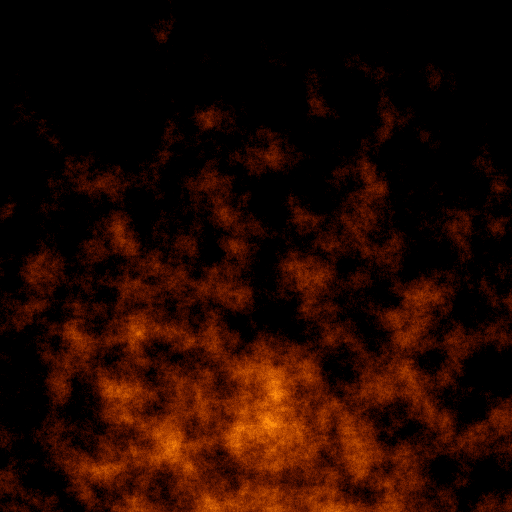
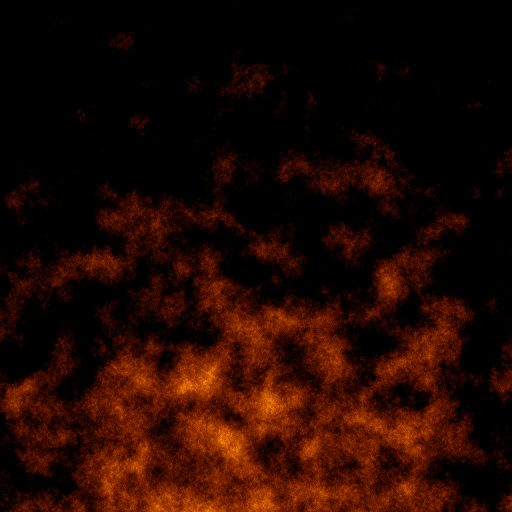
Final

diff --git a/fire.py b/fire.py
@@ -3,14 +3,15 @@ import numpy as np
 from scipy.spatial import distance
 from PIL import Image, ImageDraw
 
-seed = np.random.randint(0, 100)
+
 max_color = (246, 203, 29)
 min_color = (255, 85, 0)
 
 
-def generate_fire(n: int, width: int, scale: int)->None:
+def generate_fire(n: int, width: int, scale: int, seed: int)->None:
     """
     Genera un png a partir de perlin noise en 3D
+    :param seed: semilla de inicialización
     :param n: numero de secuencia
     :param width: ancho y alto de la imagen
     :param scale: es
@@ -19,21 +20,20 @@ def generate_fire(n: int, width: int, scale: int)->None:
     print("Imagen ", n)
     fire = np.zeros((width, width))
     reference_point = (width - 1, int((width - 1) - (width - 1) / 2.0))
-    k = n / 100
+    k = n/(13)
     for i in range(width):
         for j in range(width):
-            perlin_one = noise.pnoise3((i / scale), j / scale + n / 100, n / 100, octaves=8, persistence=0.5,
+            perlin_one = noise.pnoise3((i / scale), j / scale, k, octaves=8, persistence=0.5,
                                        lacunarity=1.0, repeatx=1024, repeaty=1024,
                                        base=seed)
-            perlin_two = noise.pnoise3(i / (scale / 2), j / (scale / 2) - n / 100, n / 10, octaves=8, persistence=0.4,
+            perlin_two = noise.pnoise3(i / (scale / 2), j / (scale / 2) , k, octaves=8, persistence=0.4,
                                        lacunarity=2.0, repeatx=1024, repeaty=1024,
                                        base=seed)
-            perlin_three = noise.pnoise3((i + 60 / scale), j - 20 / scale + n / 100, n / 100, octaves=8, persistence=1,
+            perlin_three = noise.pnoise3((i + 60 / scale), j - 20 / scale , k, octaves=8, persistence=1,
                                          lacunarity=0.5, repeatx=1024, repeaty=1024,
                                          base=seed)
-            fire[i][j] = (perlin_one * 0.5) + (perlin_two * 0.5) + perlin_three - distance.euclidean((i + 40, j),
-                                                                                                     reference_point) / (
-                                 scale * 10)
+            fire[i][j] = (perlin_one * 0.5) + (perlin_two * 0.5) + perlin_three - distance.euclidean((i + 20, j),
+                                                                reference_point) / (scale * 10)
     img = generate_output(fire)
     img.save("./outputs/" + str(n) + ".png")
 

diff --git a/main.py b/main.py
@@ -1,21 +1,12 @@
-# import threading
-#
-# from fire import generate_fire, generate_gif
-# thread_list = []
-#
-# for n in range(16):
-#    thread = threading.Thread(target=generate_fire, args=[n, 100, 10])
-#    thread_list.append(thread)
-#    thread.start()
-#
-# for thread in thread_list:
-#    thread.join()
-#
-# generate_gif(16)
 from multiprocessing.pool import Pool
+
+import numpy as np
+
 from fire import generate_fire, generate_gif
 
+seed = np.random.randint(0, 100)
+frames = 13
 if __name__ == '__main__':
-    pool = Pool(processes=32)
-    [pool.apply(generate_fire, args=[n, 512, 50]) for n in range(8)]
-    generate_gif(8)
+    pool = Pool(processes=frames)
+    [pool.apply(generate_fire, args=(n, 512, 50, seed)) for n in range(frames)]
+    generate_gif(frames)
